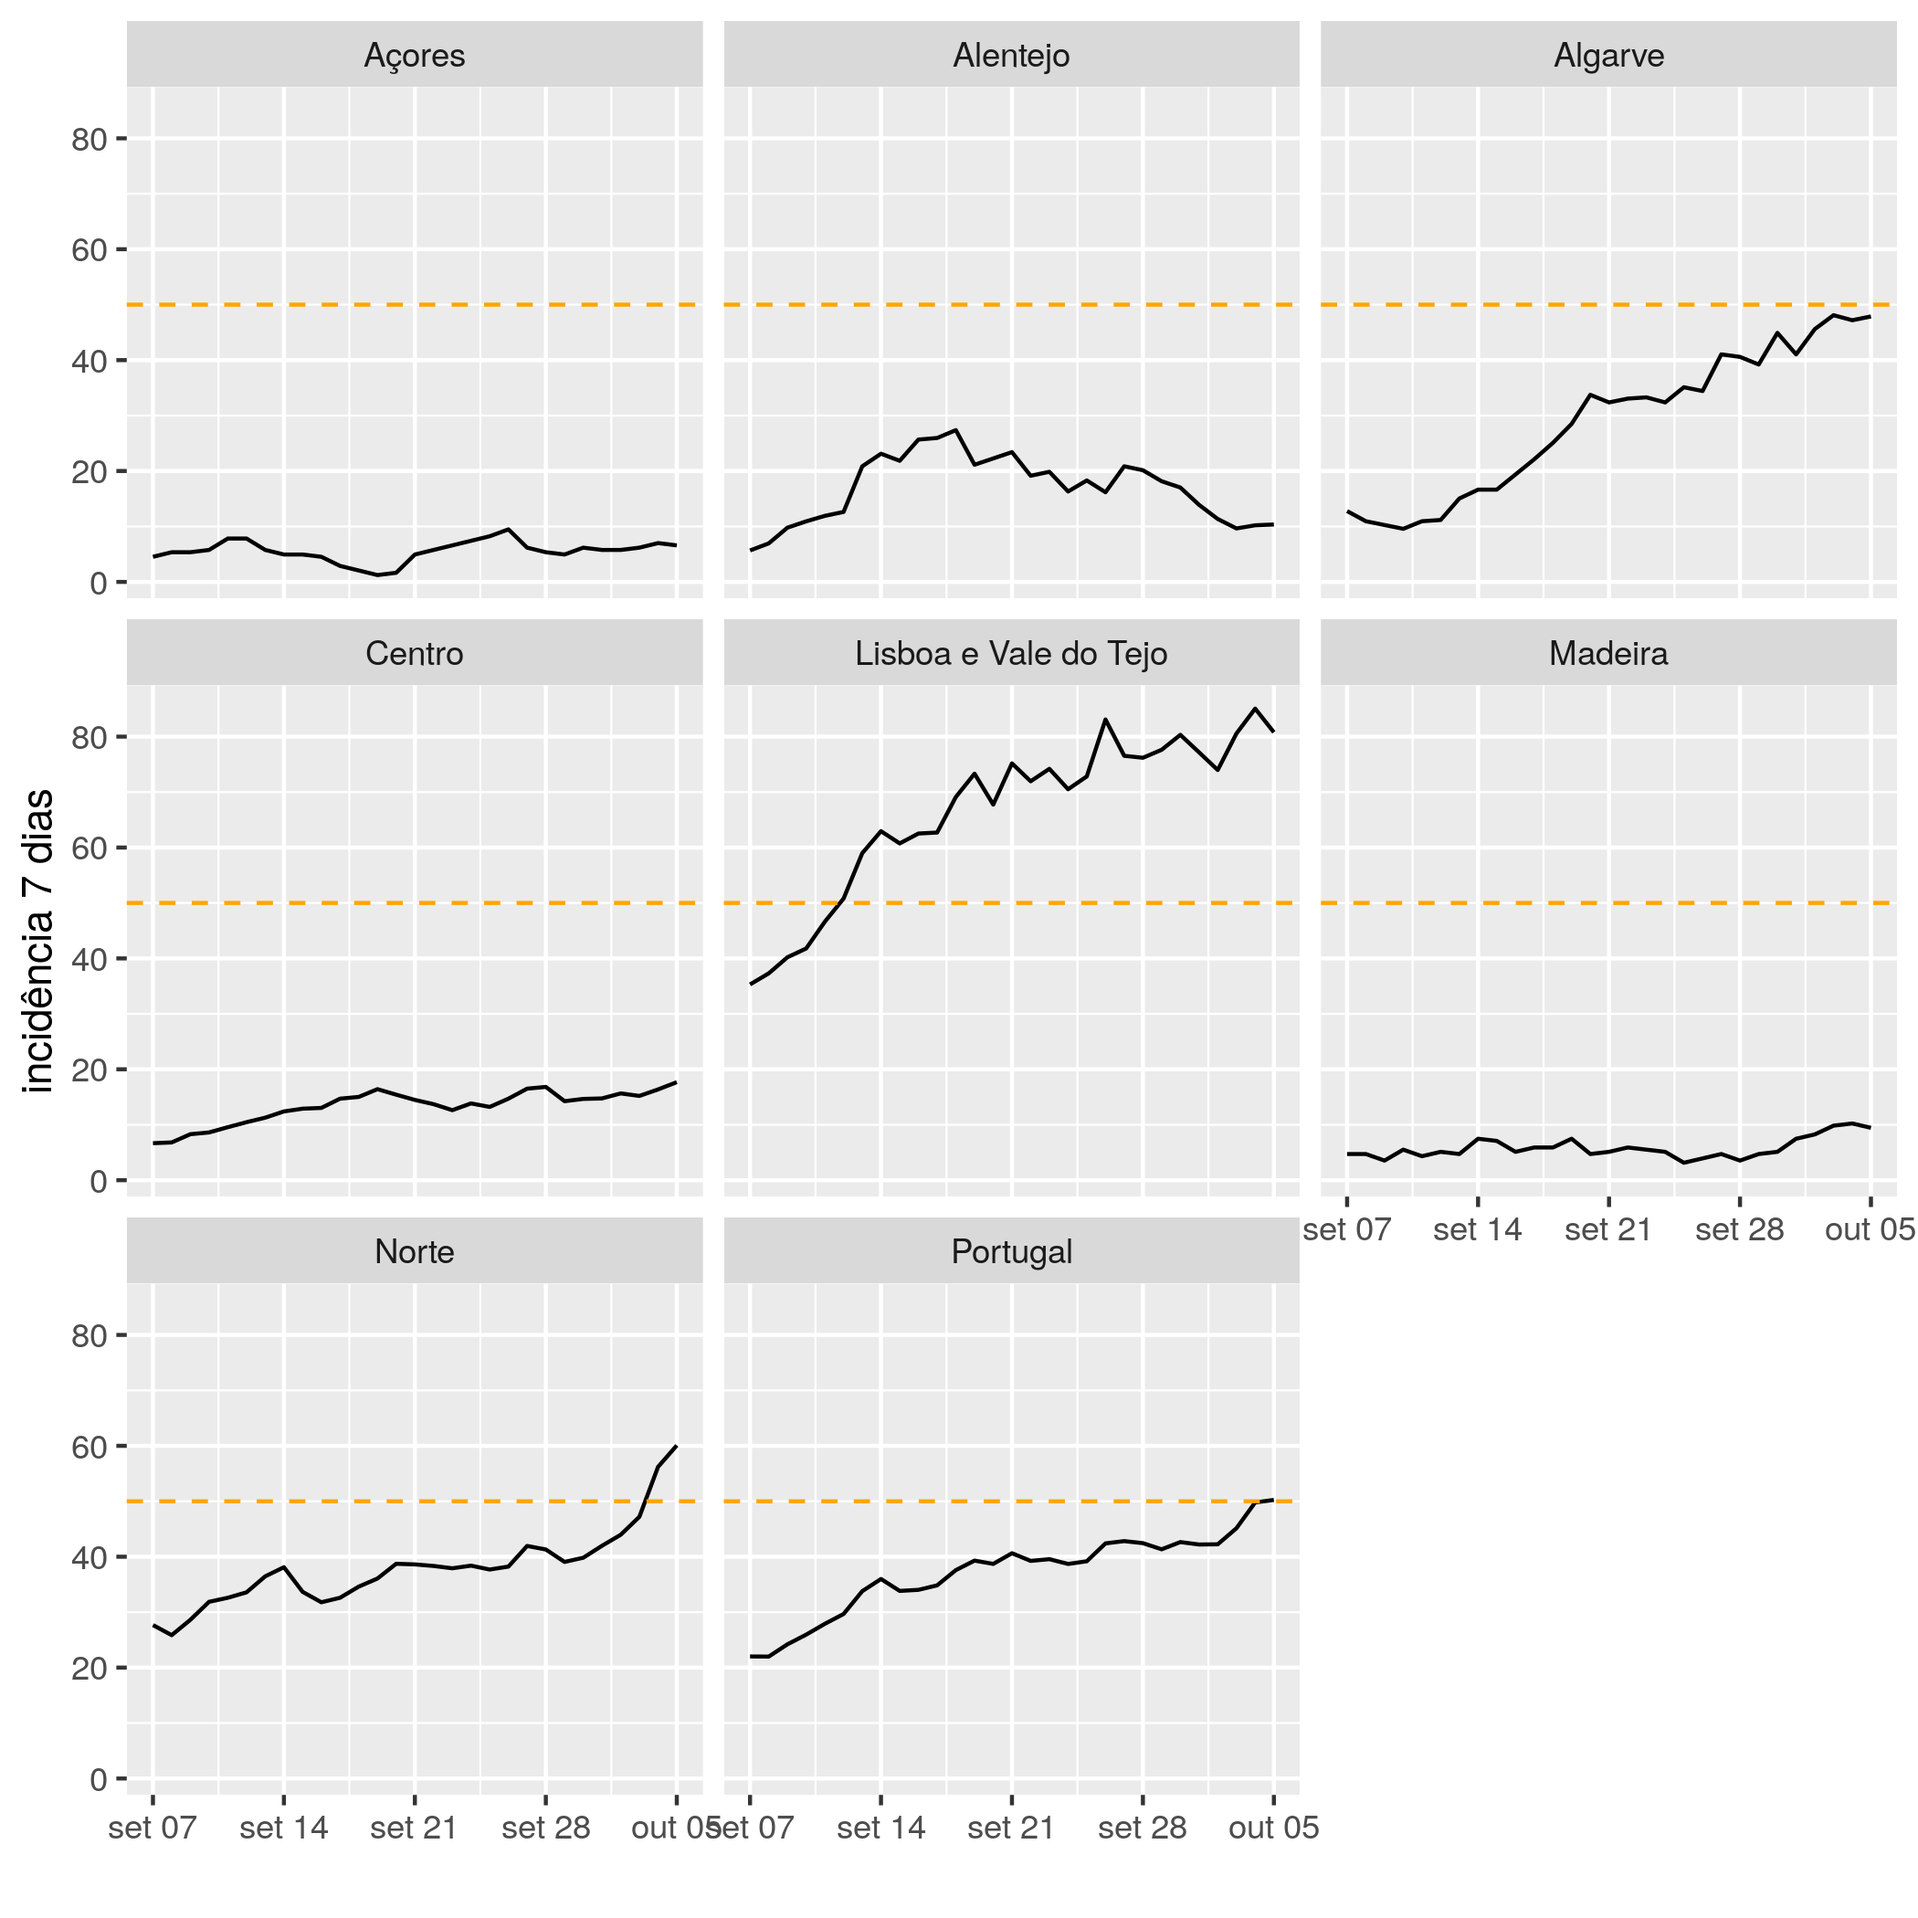
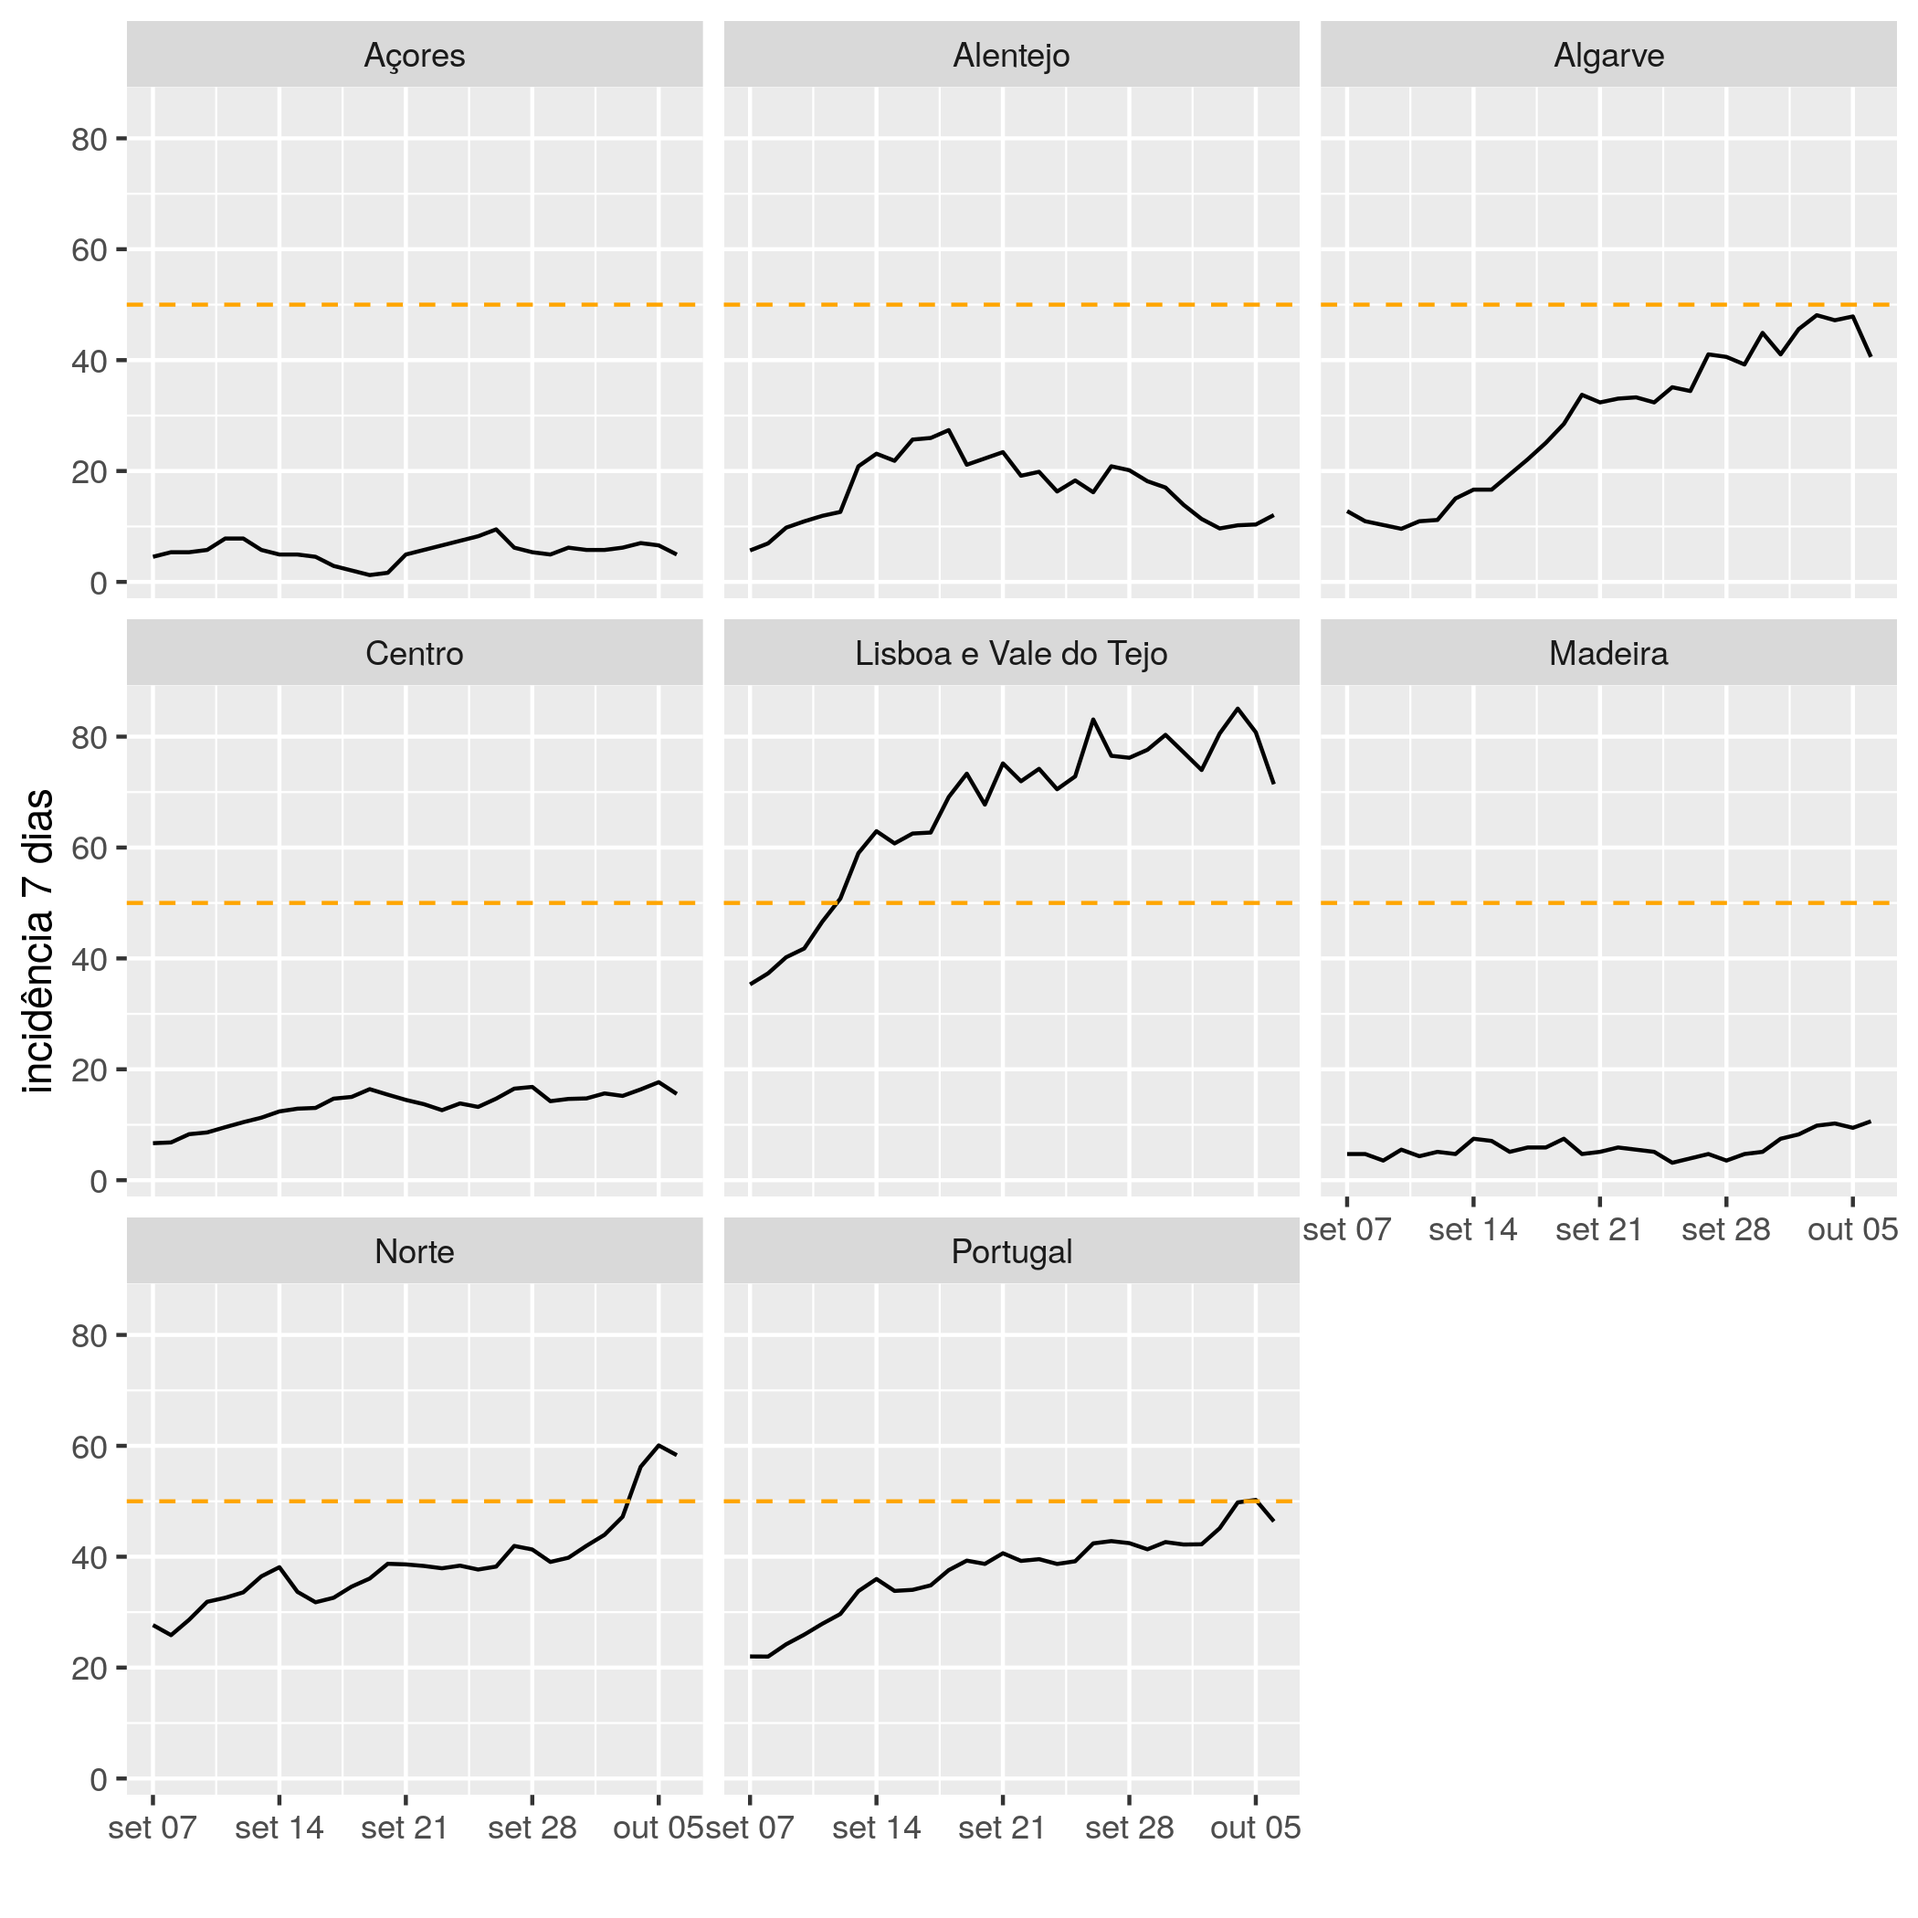
finalmente dados de hj

diff --git a/README.md b/README.md
@@ -1,7 +1,7 @@
 # Contexto
 A incidência por 100000 habitantes em 7 dias é o valor de referência para decretar regiões de risco pelas autoridades de saúde alemãs (valor charneira é 50, ie LVT já é região de risco). Gráficos atualizados diariamente. Para ajudar quem quer viajar para a Alemanha ou vir passar férias a Portugal.
 
-Dados mais recentes de 2020-10-05.
+Dados mais recentes de 2020-10-06.
 
 # Incidência por 100000 habitantes em 7 dias
 ## Últimos 30 dias
